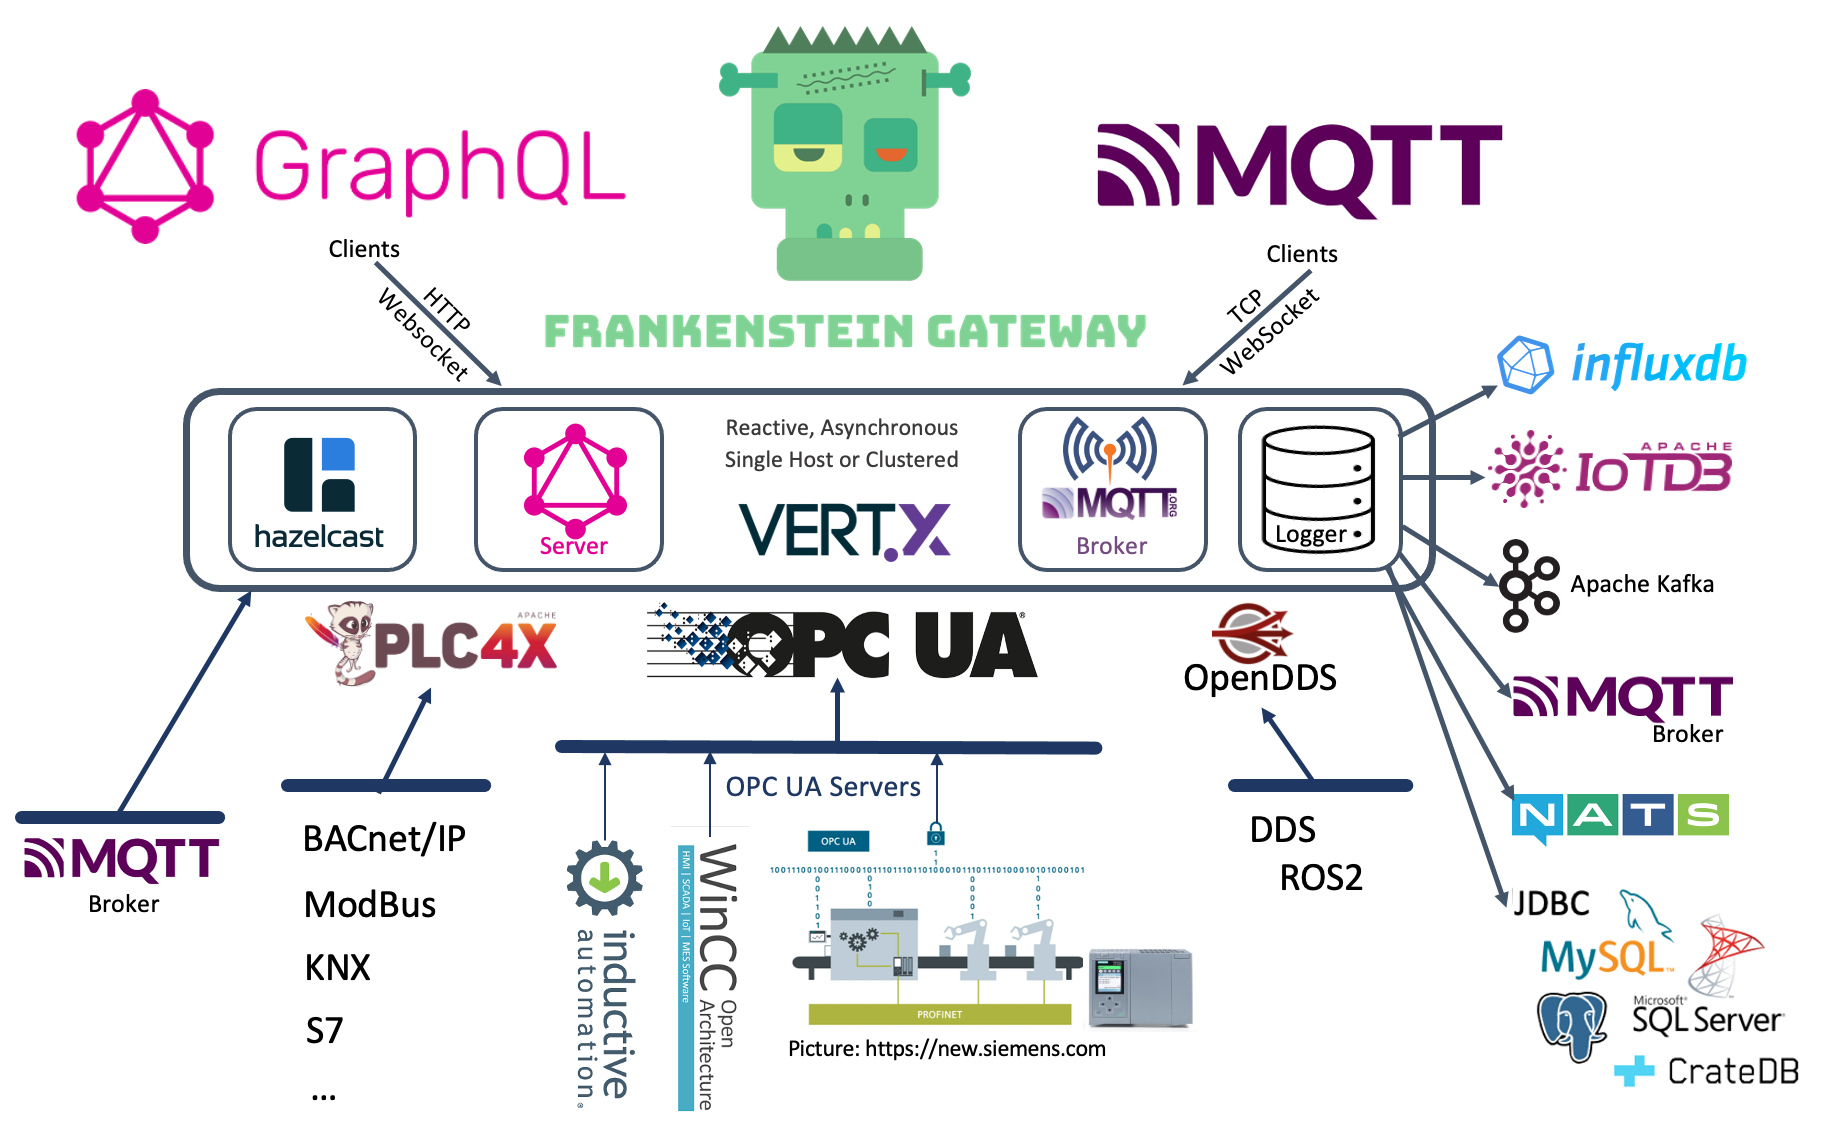
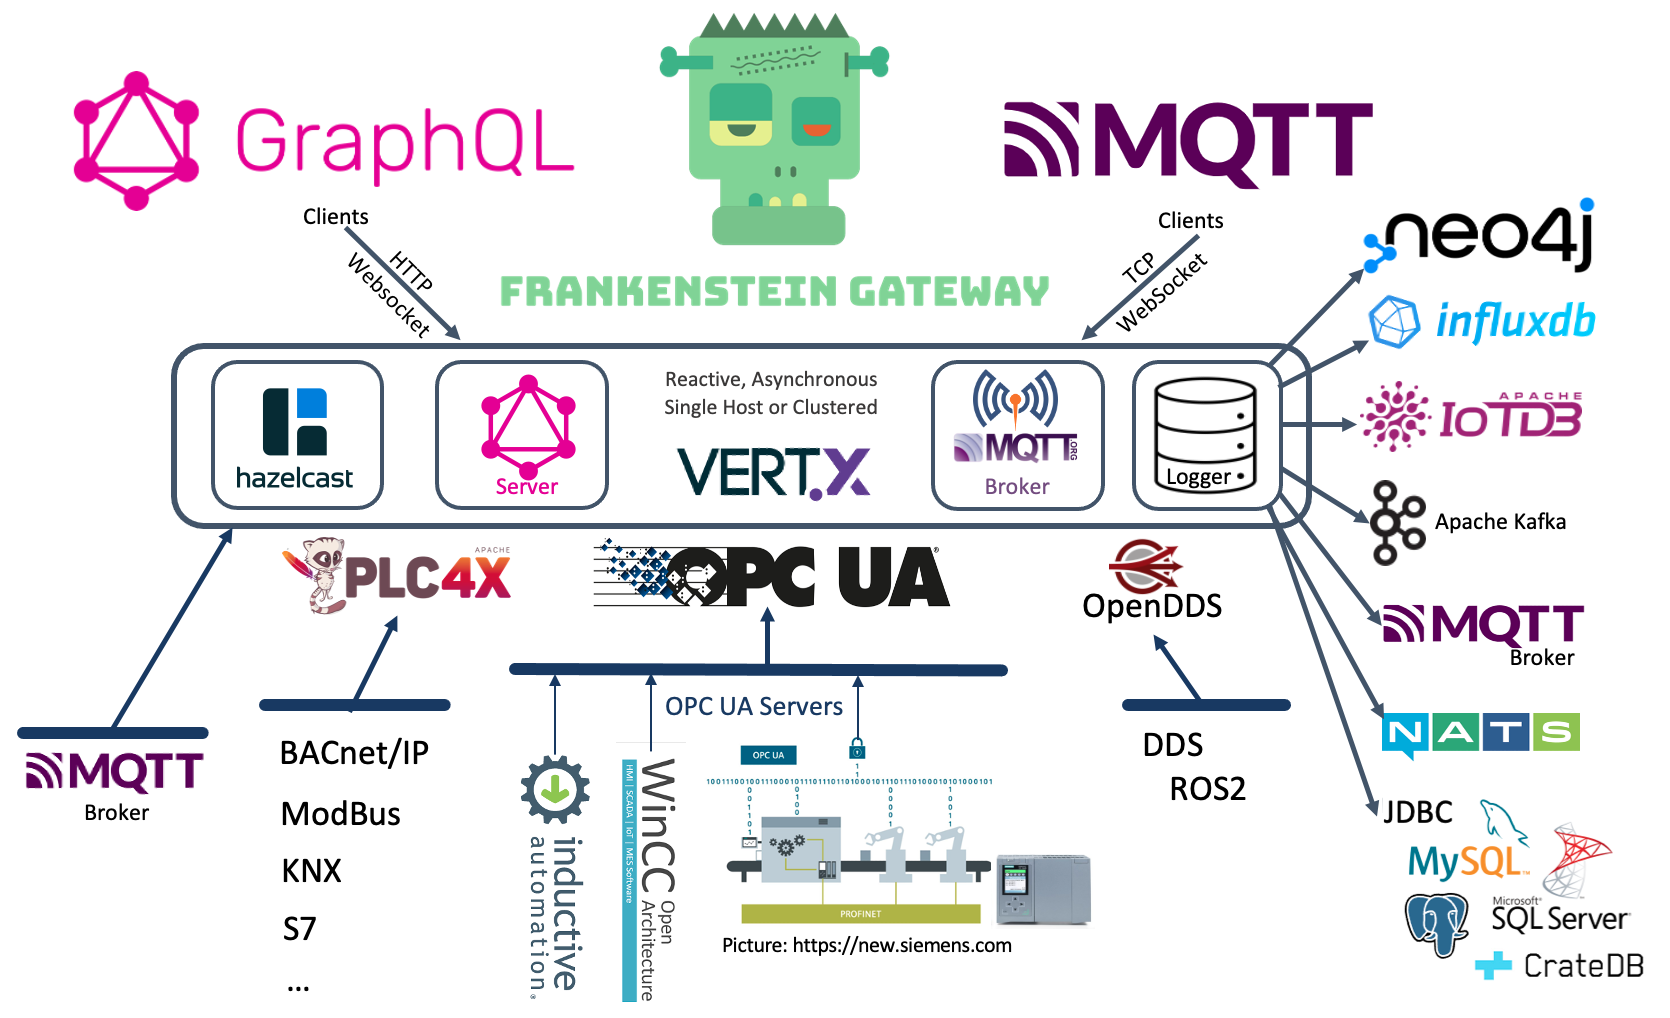
Documentation for Neo4j logger

diff --git a/README.md b/README.md
@@ -11,6 +11,7 @@ You can sponsor this project [here](https://paypal.me/av75).
 ![Gateway](doc/Automation-Gateway.png)
 
 # Version History
+1.19 Neo4j Logger to write field values to the graph database  
 1.18.3 Added MQTT Websocket Option and simple Authentication  
 1.18.2 Raw value to engineering value conversion for PLC4X driver  
 1.18.1 Features and bug fixes in PLC4X driver  
@@ -221,6 +222,34 @@ Example MQTT Topic:
 > plc/mod/node/coil:1  
 
 # Version History
+## 1.19 Neo4j Logger to write field values to the graph database  
+Added Neo4j as an option to log values from OPC UA to the graph database. Additionally the OPC UA node structure can also be replicated to the graph database. This will be done only once at the startup of the Automation Gateway.  
+```
+Database:
+  Logger:
+    - Id: neo4j
+      Enabled: true
+      Type: Neo4j
+      Url: bolt://nuc1.rocworks.local:7687
+      Username: "neo4j"
+      Password: "manager"
+      Schemas:
+        - System: opc1  # Replicate node structure to the graph database
+          RootNodes:
+            - "ns=2;s=Demo"  # This node and everything below this node
+        - System: winccoa1  # Replicate the nodes starting from "i=85" (Objects) node
+      WriteParameters:
+        BlockSize: 1000
+      Logging:
+        - Topic: opc/opc1/path/Objects/Demo/SimulationMass/SimulationMass_Float/+
+        - Topic: opc/opc1/path/Objects/Demo/SimulationMass/SimulationMass_Double/+
+        - Topic: opc/opc1/path/Objects/Demo/SimulationMass/SimulationMass_Int16/+
+        - Topic: opc/winccoa1/path/Objects/PUMP1/#
+        - Topic: opc/winccoa1/path/Objects/ExampleDP_Int/#
+
+
+```
+
 ## 1.18.3 Added MQTT Websocket Option and simple Authentication  
 Added the option to enable a Websocket listener for the MQTT server.
 The Websocket listener is listening on the endpoint "/mqtt".
